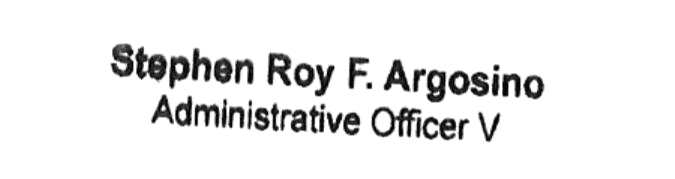
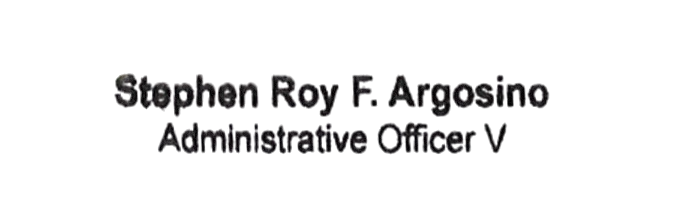
try

Changed region(s): [[0.1556, 0.2235, 0.8089, 0.8101]]

diff --git a/src/pages/stamping/components/received.tsx b/src/pages/stamping/components/received.tsx
@@ -1,7 +1,7 @@
 import { IconRubberStamp } from '@tabler/icons-react';
 import { Button } from '@/components/custom/button';
 import { State, Item } from '../util/stamps-reducer-types';
-import { receivedImg, initialMaricelImg } from '../data/images'
+import { receivedImg, initialMaricelImg, adamInitial } from '../data/images'
 import { rgb } from 'pdf-lib';
 
 
@@ -72,15 +72,25 @@ export function Received({ addItem, state }: IAppProps) {
         const initial = {
             id: '4',
             component: 'StampReceivedForm',
-            height: 30,
-            width: 30,
-            x: 150,
-            y: 45,
+            height: 40,
+            width: 40,
+            x: 135,
+            y: 35,
             isShown: true,
             type: 'image',
             content: initialMaricelImg,
         }
-
+        const adamInitialPosition = {
+            id: '5',
+            component: 'StampReceivedForm',
+            height: 20,
+            width: 20,
+            x: 135,
+            y: 93,
+            isShown: true,
+            type: 'image',
+            content: adamInitial,
+        };
         const stamp = {
             id: id,
             component: 'StampReceivedForm',
@@ -95,7 +105,8 @@ export function Received({ addItem, state }: IAppProps) {
                 trackingNo,
                 date,
                 time,
-                initial
+                initial,
+                adamInitialPosition
             ]
         };
         addItem(stamp)

diff --git a/src/pages/stamping/data/images.tsx b/src/pages/stamping/data/images.tsx
@@ -3,6 +3,7 @@ import initialMaricel from '../assets/images/maricel-initial.png'
 import signitureMaricel from '../assets/images/maricel-signature.png'
 import ctc from '../assets/images/certify-true-copy.png'
 import maricelNameStamp from '../assets/images/maricel-malalad-head-record-gsd.png';
+import adamInitialImg from '../assets/images/adam-initial.png';
 
 
 const receivedImg = {
@@ -28,12 +29,16 @@ const maricelNameStampImg = {
     src: maricelNameStamp
 }
 
-
+const adamInitial = {
+    title: 'Adam Initial',
+    src: adamInitialImg
+}
 
 export {
     receivedImg,
     initialMaricelImg,
     signitureMaricelImg,
     ctcImage,
-    maricelNameStampImg
+    maricelNameStampImg,
+    adamInitial
 }

diff --git a/src/pages/stamping/components/stamp-ctc-form.tsx b/src/pages/stamping/components/stamp-ctc-form.tsx
@@ -1,5 +1,4 @@
-import { signitureMaricelImg, receivedImg } from "../data/images";
-import ModalImageView from "./modal-image-view";
+import { signitureMaricelImg, ctcImage } from "../data/images";
 import { PositioningButton } from './positioning-button';
 import { Button } from "@/components/custom/button";
 import { IconTrash } from '@tabler/icons-react';

diff --git a/src/pages/stamping/components/ctc.tsx b/src/pages/stamping/components/ctc.tsx
@@ -43,7 +43,7 @@ export function CTC({ addItem, state }: CTC) {
             height: 50,
             width: 140,
             x: 15,
-            y: 57,
+            y: 52,
             isShown: true,
             color: rgb(190 / 255, 101 / 255, 120 / 255),
             type: 'image',
